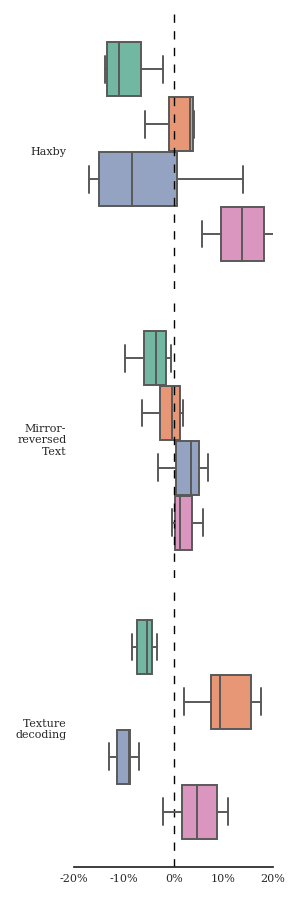
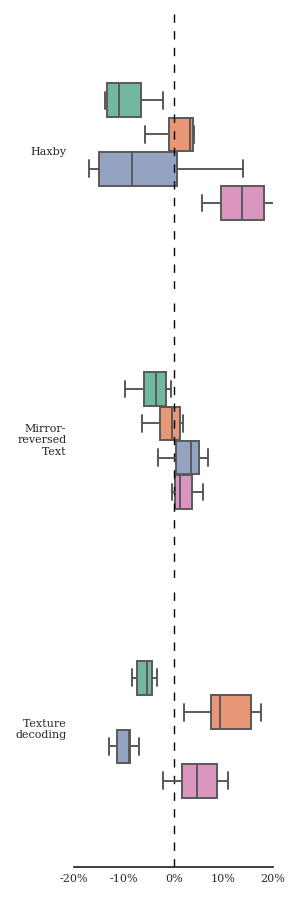
tweaked boxplot

diff --git a/time_decoding/plotting.py b/time_decoding/plotting.py
@@ -208,7 +208,7 @@ def boxplot_grid():
         sns.boxplot,
         "accuracy", "dataset", "model", orient='h', palette=cmap,
         hue_order=['GLM', 'GLMs', 'spatiotemporal SVM',
-                   'logistic deconvolution'])
+                   'logistic deconvolution'], width=0.5)
 
     # Now I need to draw the 50% lines on each subplot
     # separately
